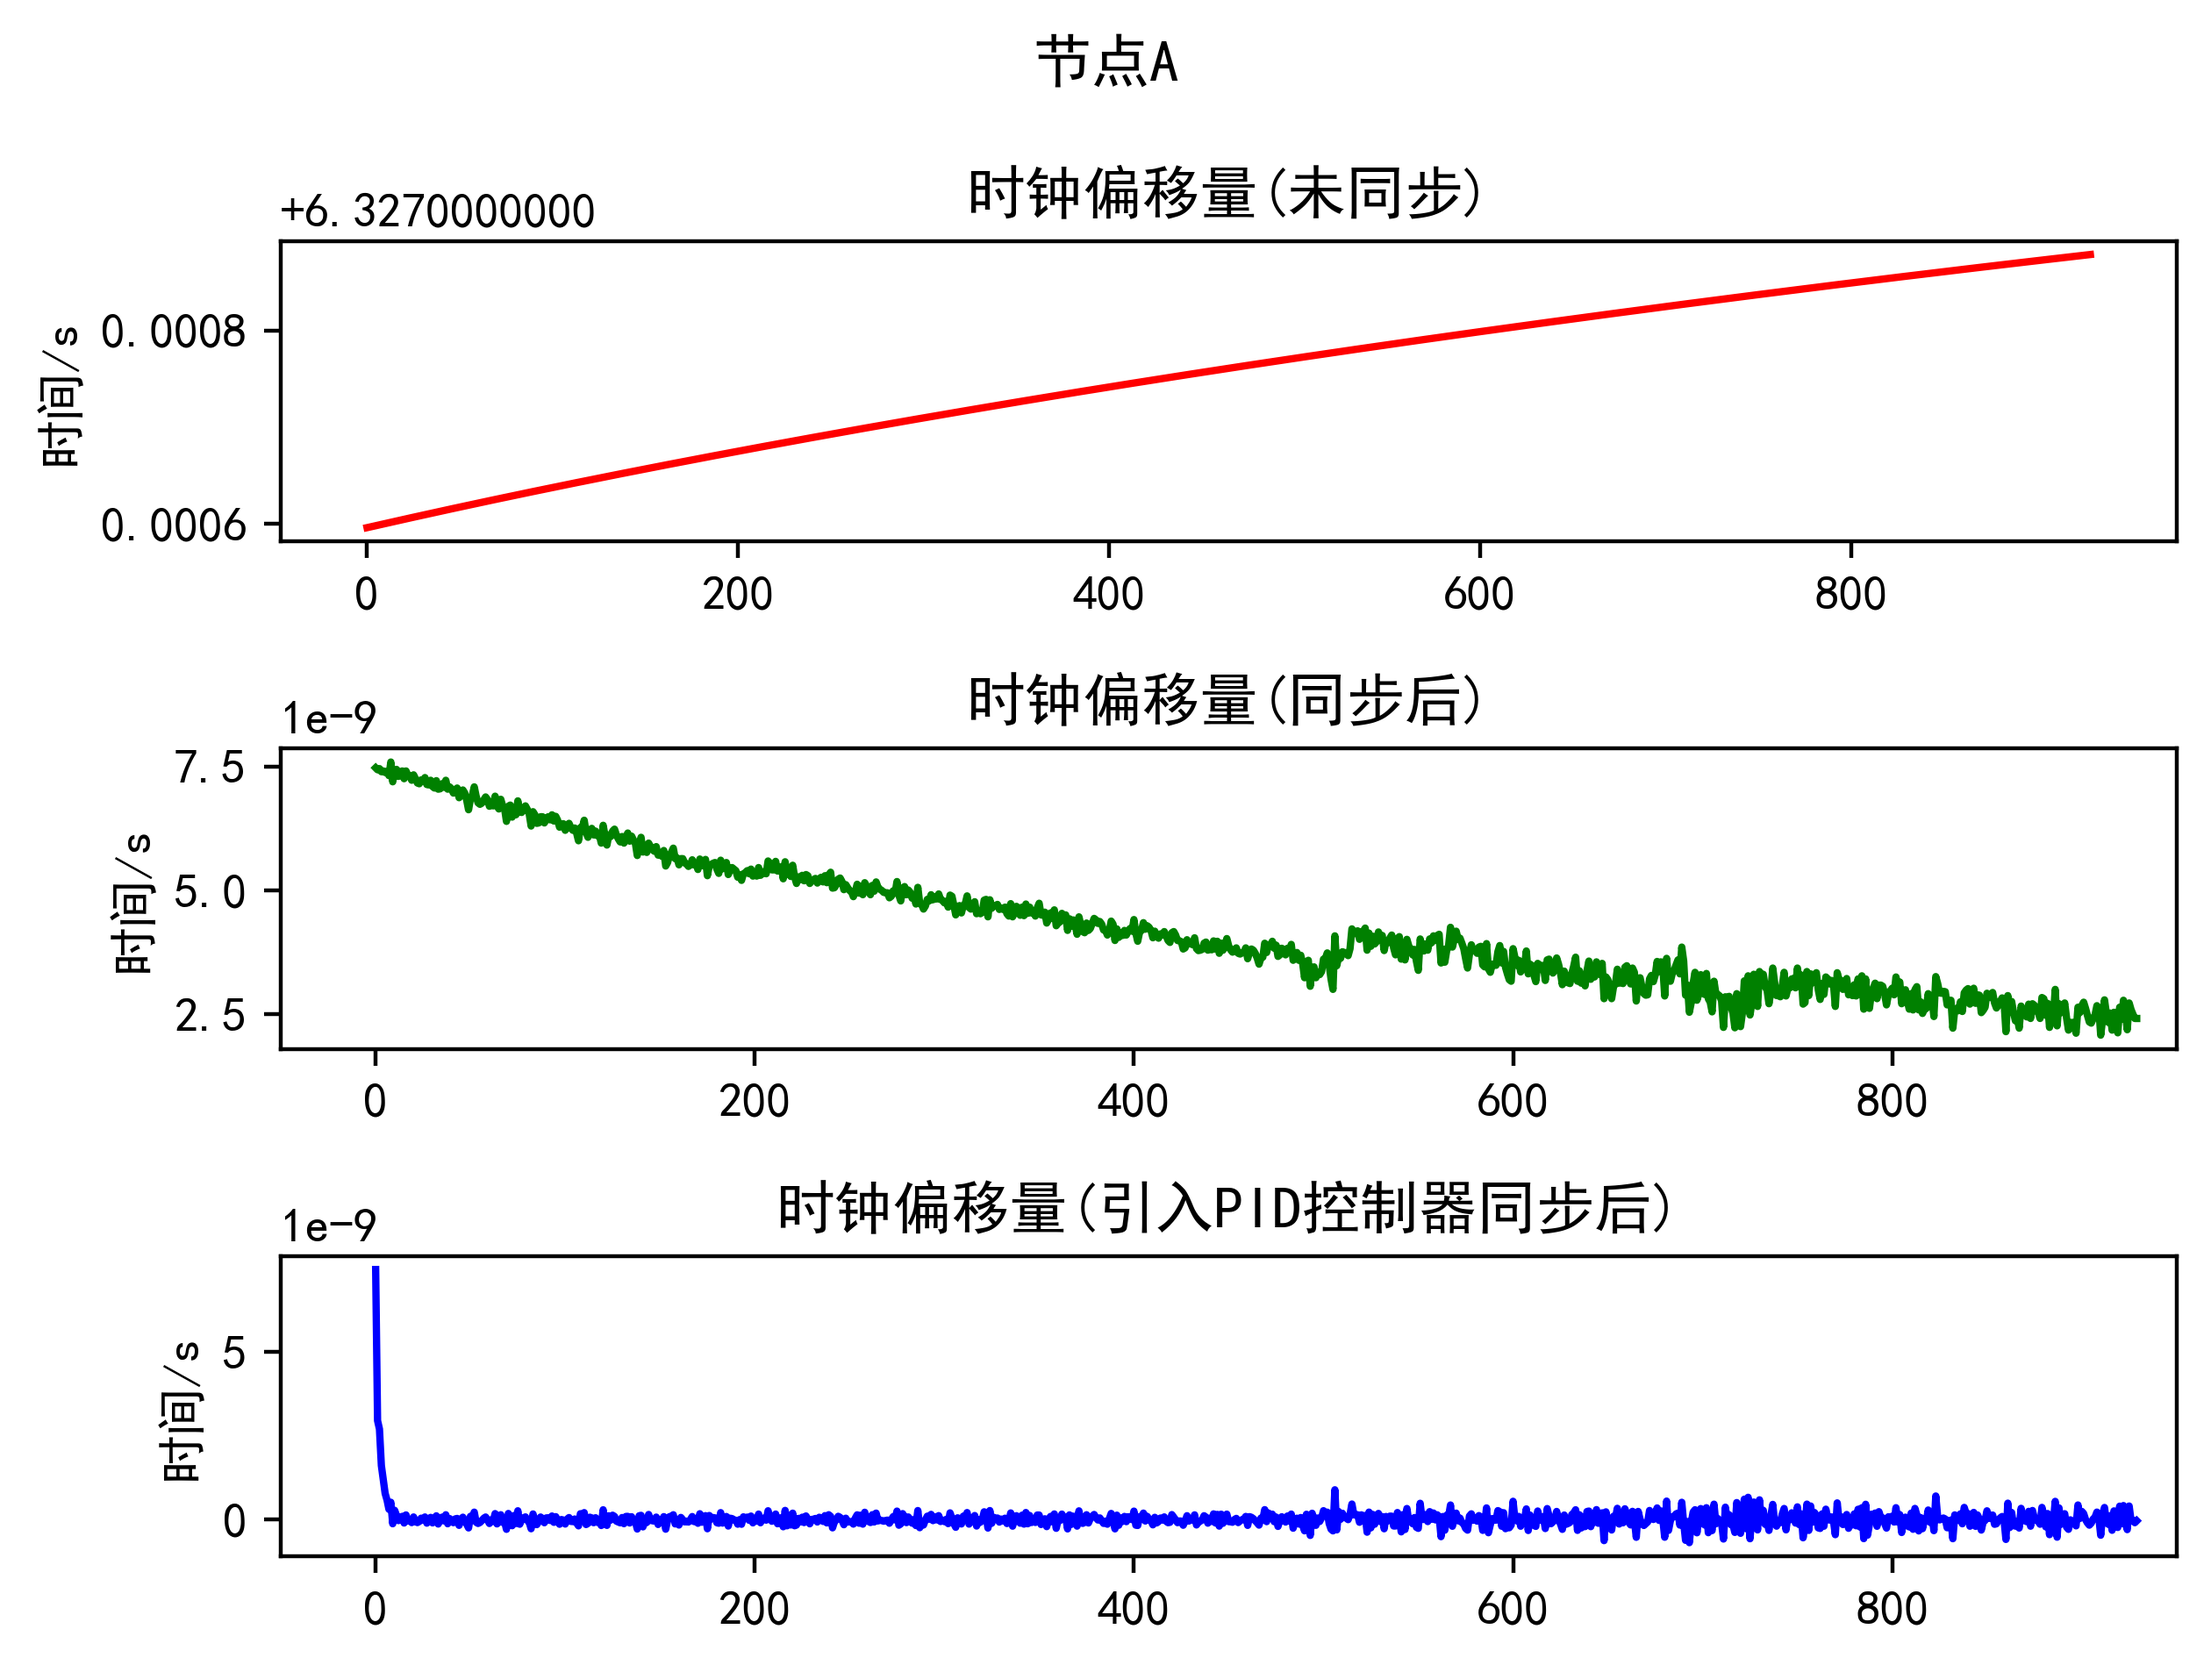
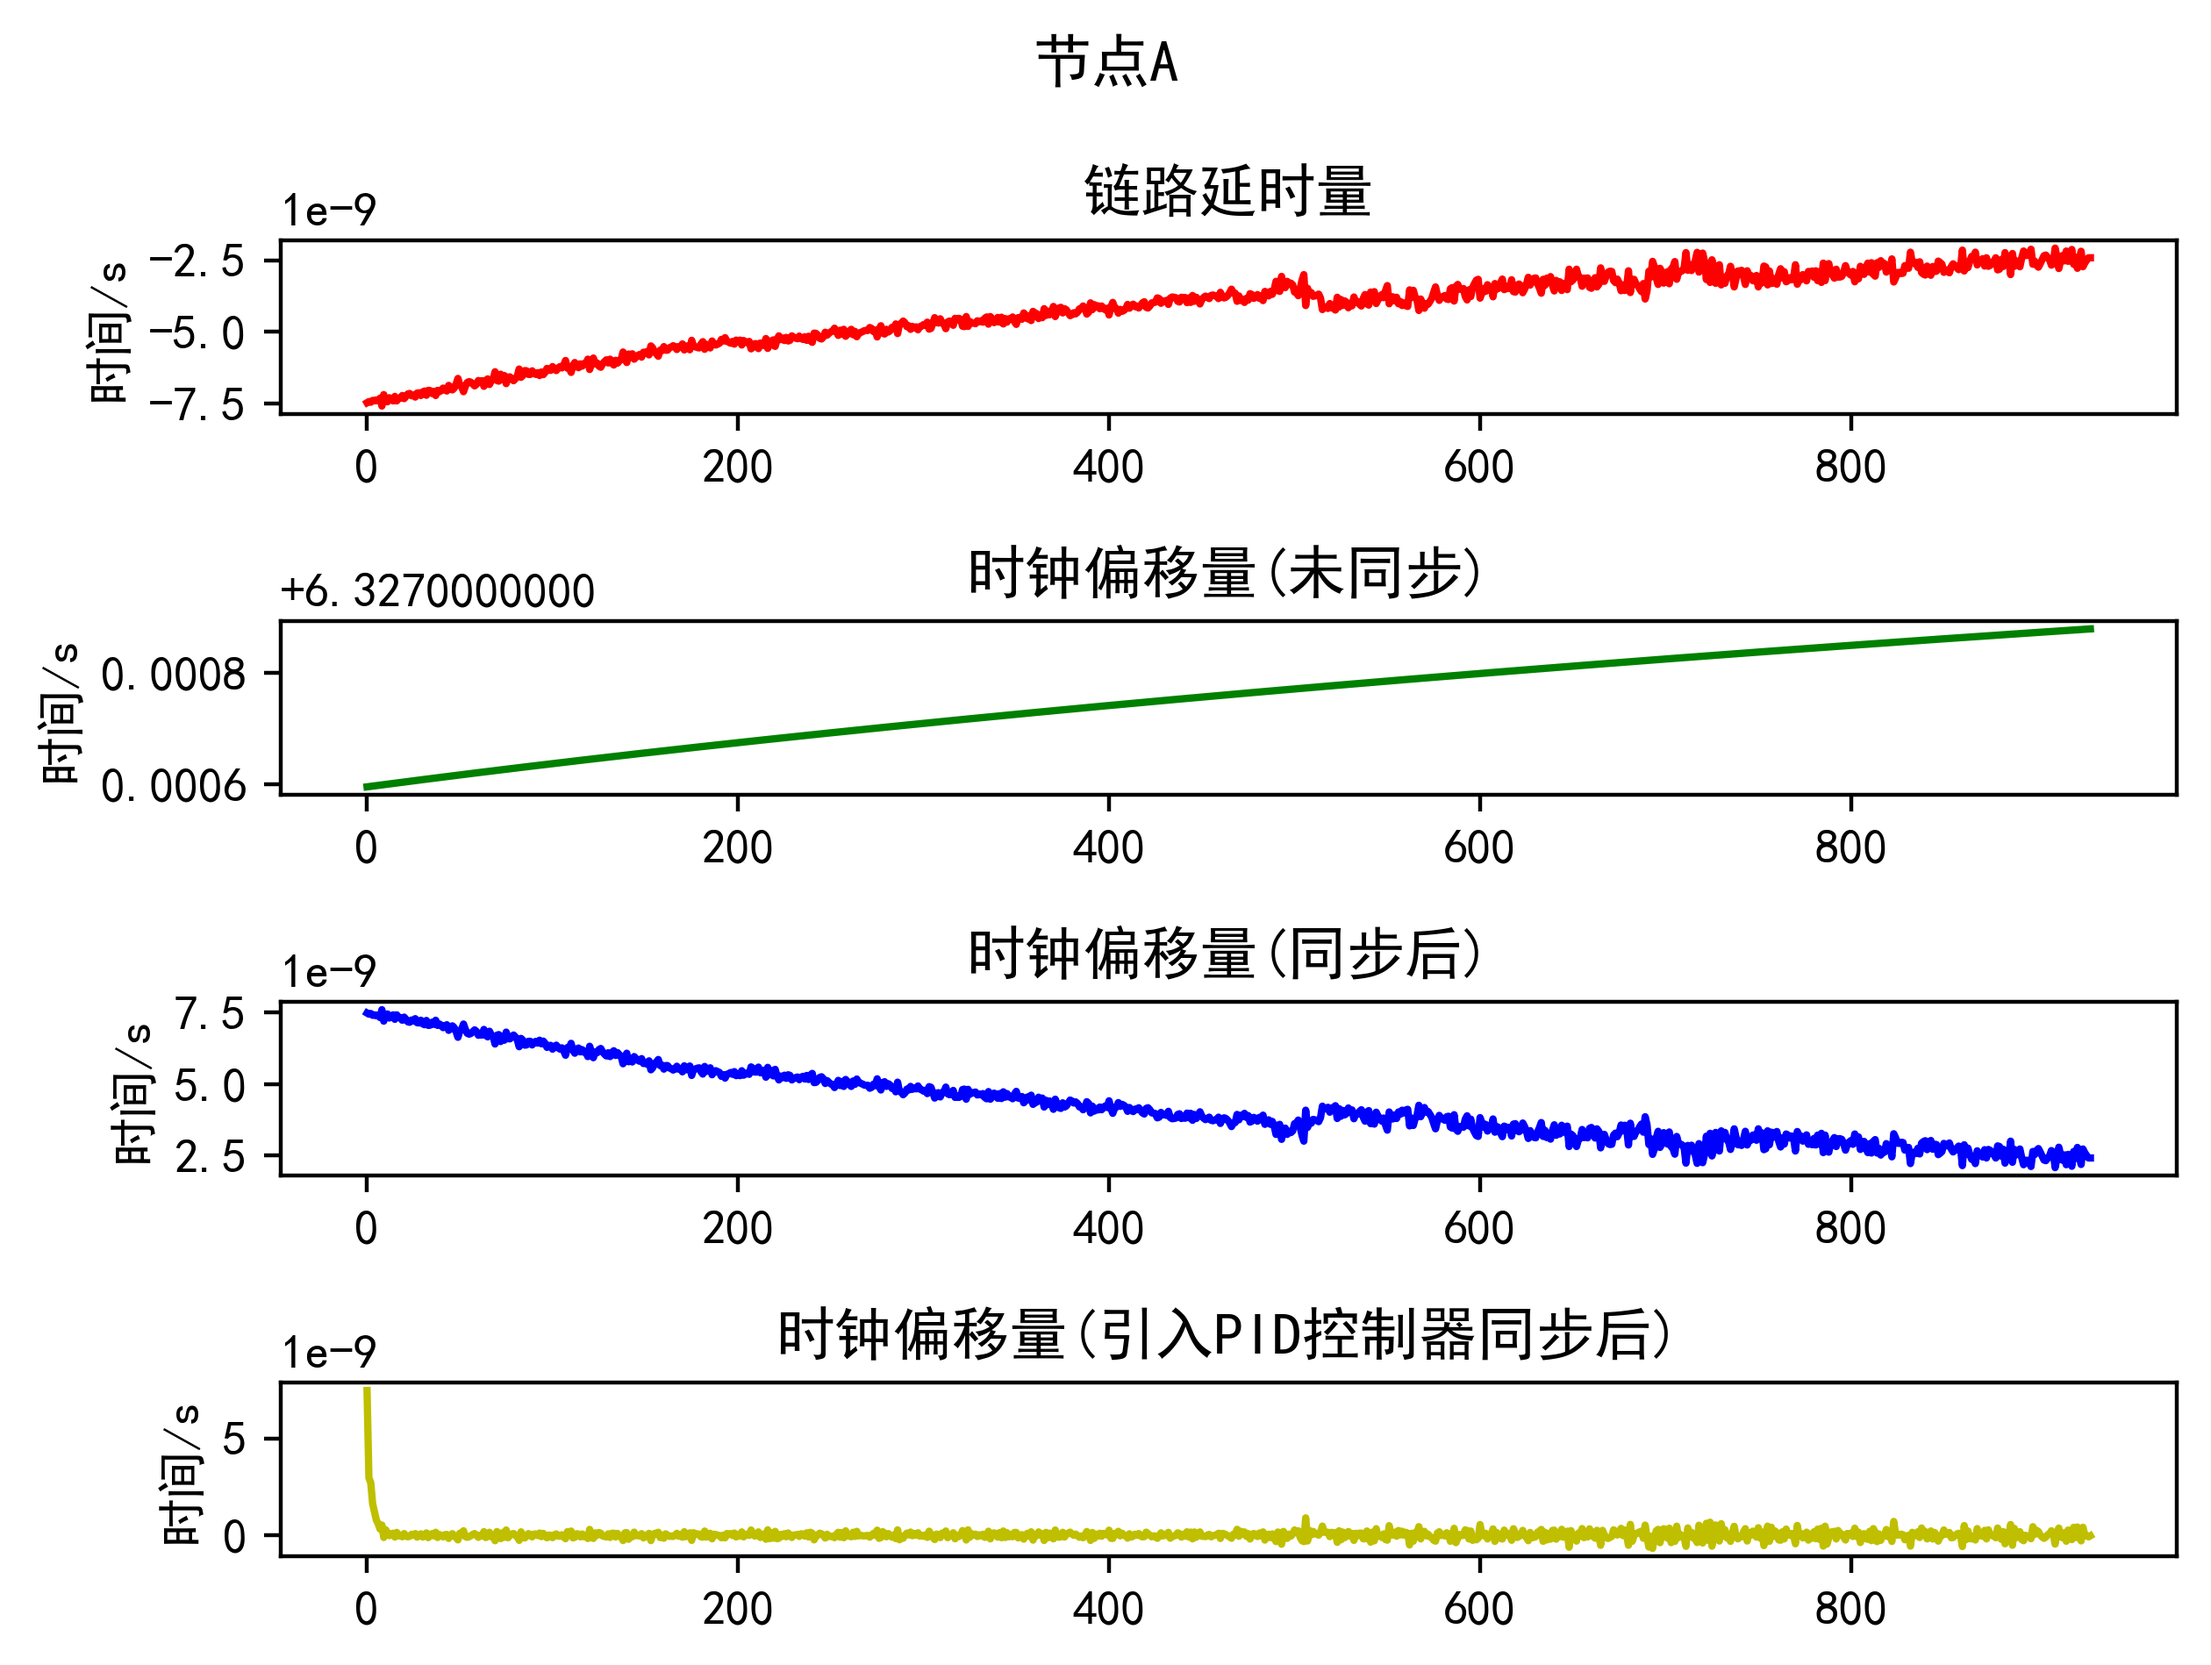
simulate clock sync

diff --git a/ptp_py/SIMU/clock_sync.py b/ptp_py/SIMU/clock_sync.py
@@ -1,9 +1,19 @@
-#!/usr/bin/env python
-#coding:utf8
-
-from cmath import nan
-import matplotlib.pyplot as plt
+from time import time
 import numpy as np
+import matplotlib.pyplot as plt
+import random
+
+
+D = 1e-12
+
+class clock:
+    def __init__(self):
+        self.b = random.random()
+        self.f = 1/random.uniform(32,33) * 1e-6
+        print('b =', self.b, 'f =', self.f)
+    def clockdata(self,t):
+            y = self.b + self.f * t + 1/2 * D * t * t
+            return y
 
 class node:
     def __init__(self):
@@ -15,7 +25,6 @@ class node:
         self.offset = []
         self.offset_update_ptp = []
         self.offset_update_pidinc = []
-
 
 class pidAbs:
     def __init__(self,kp,ki,kd,inc_lim):
@@ -50,52 +59,26 @@ class pidAbs:
 
         return self.ctr_out
 
+C1 = clock()
+C2 = clock()
 
 nodeA = node()
-nodeB = node()
-nodeC = node()
 
-filename = 'ptp_py/HILS/0.1.txt'
-file = open(filename, 'r')
-M = 0
+M = 800
 
-while True:
-    lines = file.readline()
-    M = M + 1
-    if not lines:
-        break
-    t1_tmp,t2_tmp,t3_tmp,t4_tmp = [float(x) for x in lines.split()]
-    if M%3 == 1:
-        nodeA.t1.append(t1_tmp)
-        nodeA.t2.append(t2_tmp)
-        nodeA.t3.append(t3_tmp)
-        nodeA.t4.append(t4_tmp)
-    if M%3 == 2:
-        nodeB.t1.append(t1_tmp)
-        nodeB.t2.append(t2_tmp)
-        nodeB.t3.append(t3_tmp)
-        nodeB.t4.append(t4_tmp)
-    if M%3 == 0:
-        nodeC.t1.append(t1_tmp)
-        nodeC.t2.append(t2_tmp)
-        nodeC.t3.append(t3_tmp)
-        nodeC.t4.append(t4_tmp)
+t = 0
+for i in range(0,M):
+    nodeA.t1.append(C1.clockdata(t))
+    t = t + random.random() * 1e-1 + 10
+    nodeA.t2.append(C2.clockdata(t))
+    t = t + random.random() * 1e-6
+    nodeA.t3.append(C2.clockdata(t))
+    t = t + random.random() * 1e-1 + 10
+    nodeA.t4.append(C1.clockdata(t))
+    t = t + random.random() * 1e-6
 
-nodeA.t1 = np.array(nodeA.t1)
-nodeA.t2 = np.array(nodeA.t2)
-nodeA.t3 = np.array(nodeA.t3)
-nodeA.t4 = np.array(nodeA.t4)
-
-nodeB.t1 = np.array(nodeB.t1)
-nodeB.t2 = np.array(nodeB.t2)
-nodeB.t3 = np.array(nodeB.t3)
-nodeB.t4 = np.array(nodeB.t4)
-
-nodeC.t1 = np.array(nodeC.t1)
-nodeC.t2 = np.array(nodeC.t2)
-nodeC.t3 = np.array(nodeC.t3)
-nodeC.t4 = np.array(nodeC.t4)
-
+t = np.arange(0,M)
+plt.plot(t, nodeA.t1)
 
 def node_handle(node_v):
     M = len(node_v.t1)
@@ -112,10 +95,9 @@ def node_handle(node_v):
     fig_v, axes_v = plt.subplots(4,1)
     plt.rcParams['font.sans-serif'] = ['SimHei'] 
     plt.rcParams['axes.unicode_minus'] = False  
-
     axes_v[0].plot(t, node_v.delay, 'r')
     axes_v[0].set_ylabel('时间/s')
-    axes_v[0].set_title('链路延时量')   
+    axes_v[0].set_title('链路延时量')
 
     axes_v[1].plot(t, node_v.offset, 'g')
     axes_v[1].set_ylabel('时间/s')
@@ -136,24 +118,15 @@ def node_handle(node_v):
         out = pid.update(0,offset_tmp)
         node_v.offset_update_pidinc.append(offset_tmp)
 
+    print(node_v.offset_update_pidinc)
     axes_v[3].plot(t, node_v.offset_update_pidinc, 'y')
     axes_v[3].set_ylabel('时间/s')
+    axes_v[3].set_ylim(-3.0e-9,2.0e-9)  
     axes_v[3].set_title('时钟偏移量(引入PID控制器同步后)')
-    if node_v == nodeA:
-        plt.suptitle('节点A')
-        plt.tight_layout()
-        plt.savefig('A_.png', dpi=400, bbox_inches = 'tight')
-    if node_v == nodeB:
-        plt.suptitle('节点B')
-        plt.tight_layout()
-        plt.savefig('B_.png', dpi=400, bbox_inches = 'tight')
-    if node_v == nodeC:
-        plt.suptitle('节点C')
-        plt.tight_layout()
-        plt.savefig('C_.png', dpi=400, bbox_inches = 'tight')
+
+    plt.tight_layout()
+
 
 node_handle(nodeA)
-node_handle(nodeB)
-node_handle(nodeC)
-
 plt.show()
+

diff --git a/ptp_py/SIMU/net.py b/ptp_py/SIMU/net.py
@@ -29,8 +29,12 @@ def netshow(net):
     tp.createPlot(net)
     return res
 
-res = netshow(net1)
+res1 = netshow(net1)
+res2 = netshow(net2)
+res3 = netshow(net3)
 
-print(res)
+print(res1)
+print(res2)
+print(res3)
 
 plt.show()    

diff --git a/README.md b/README.md
@@ -11,3 +11,4 @@
 + 2022/4/22 网络结构，节点的主从终于搞完
 + 2022/4/23 写论文的时候发现自己以前的误差思路一直是错的，立即修改完成
 + 2022/4/25 加入模拟时钟，思考一下怎么模拟通讯过程
++ 2022/4/26 仿真终于结束了，总算是完成了
